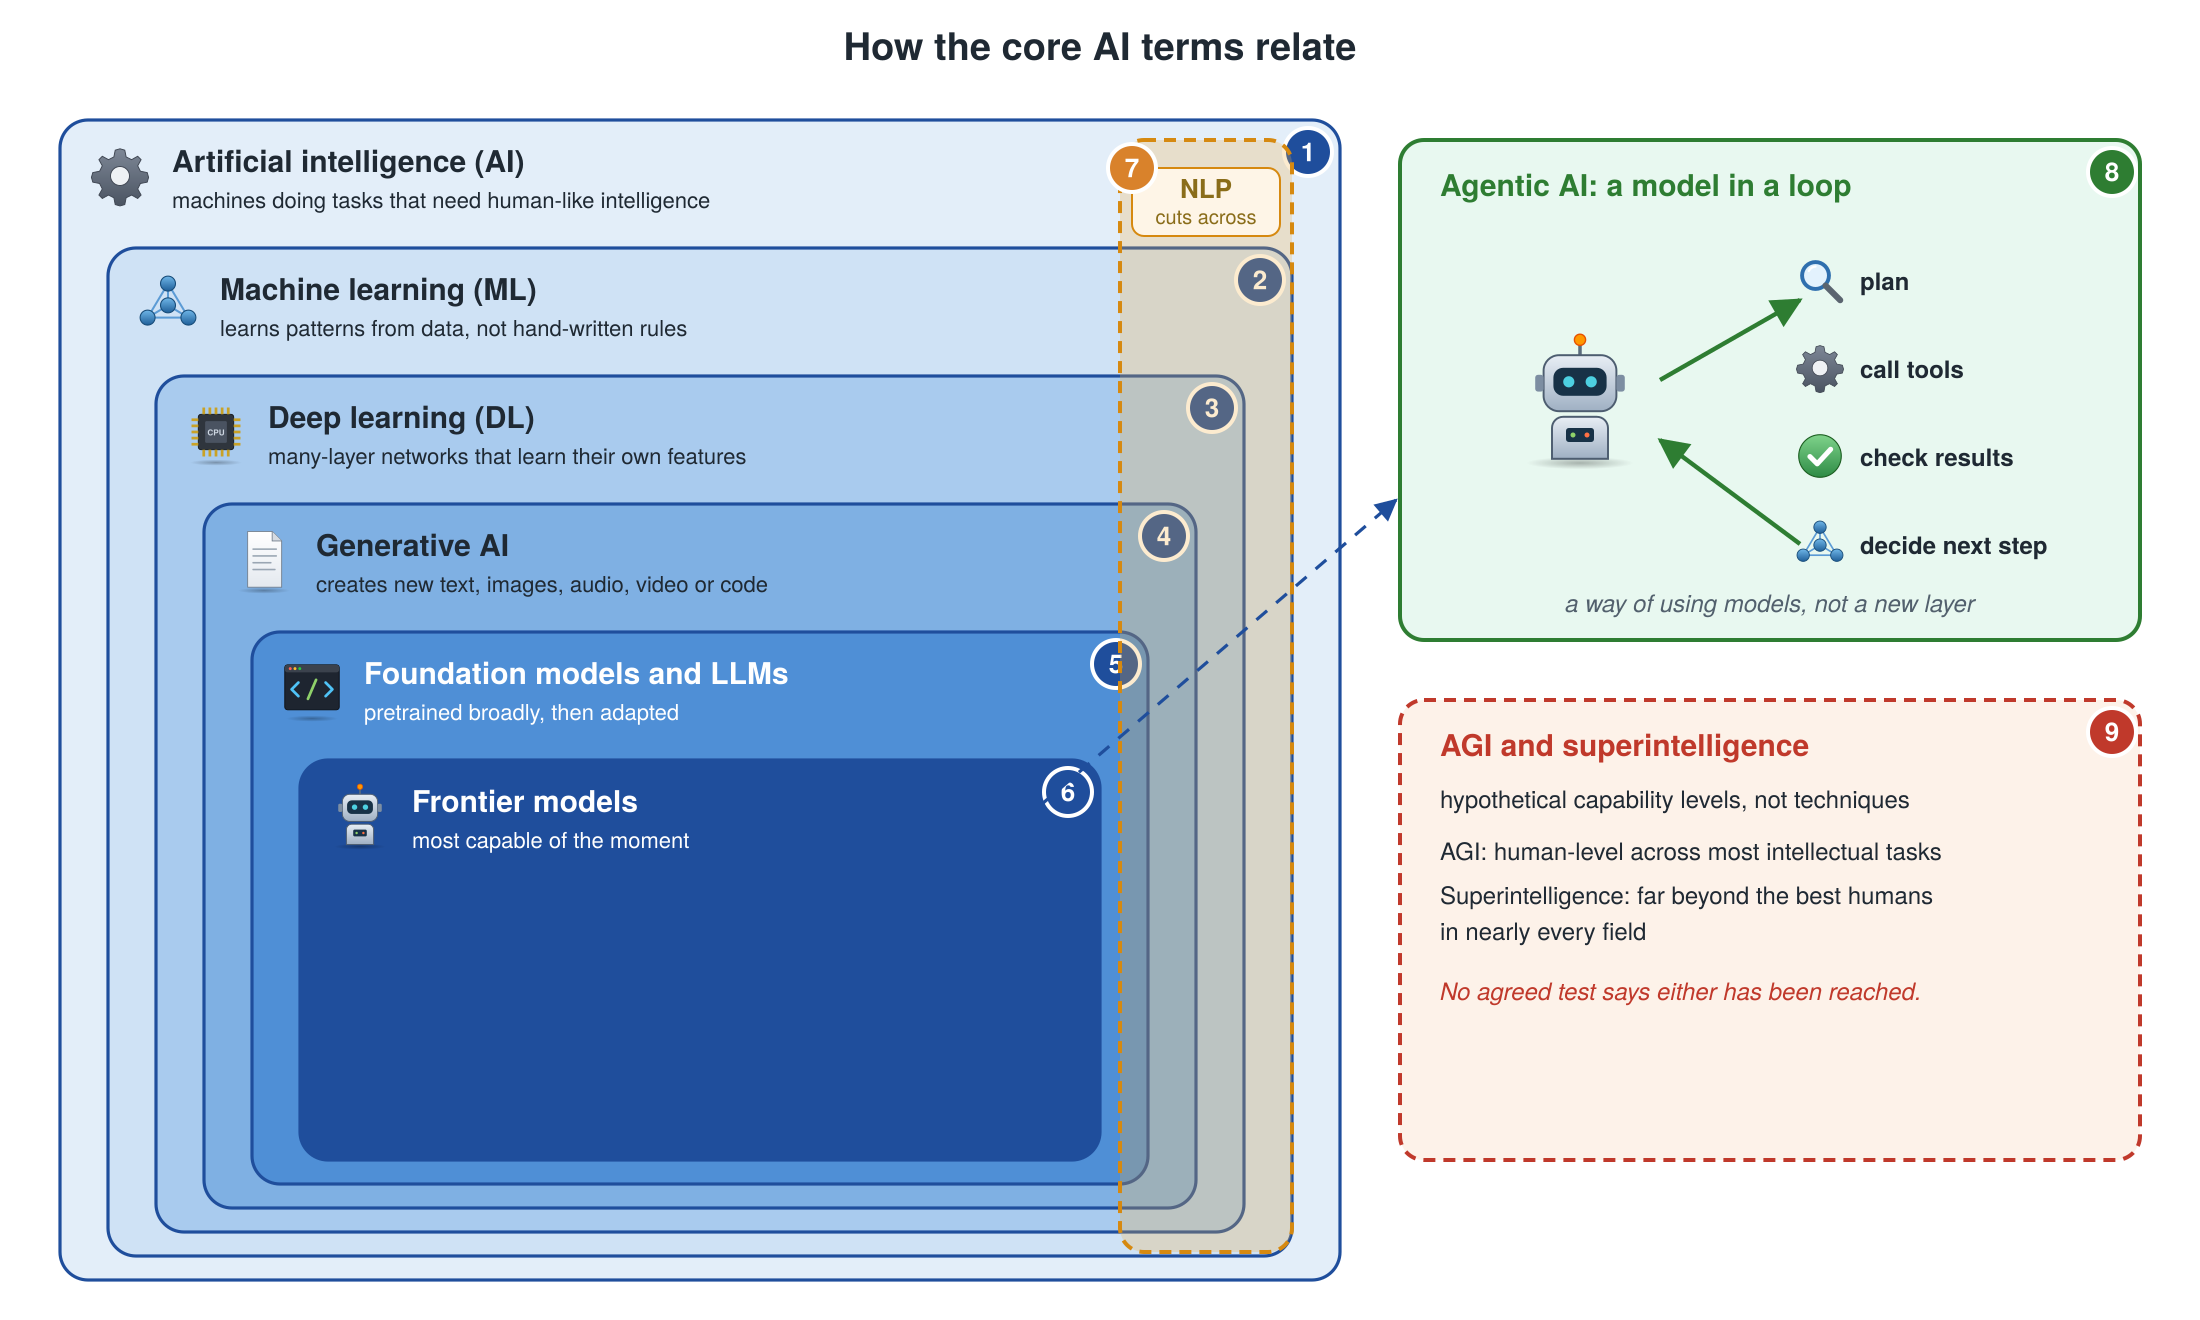
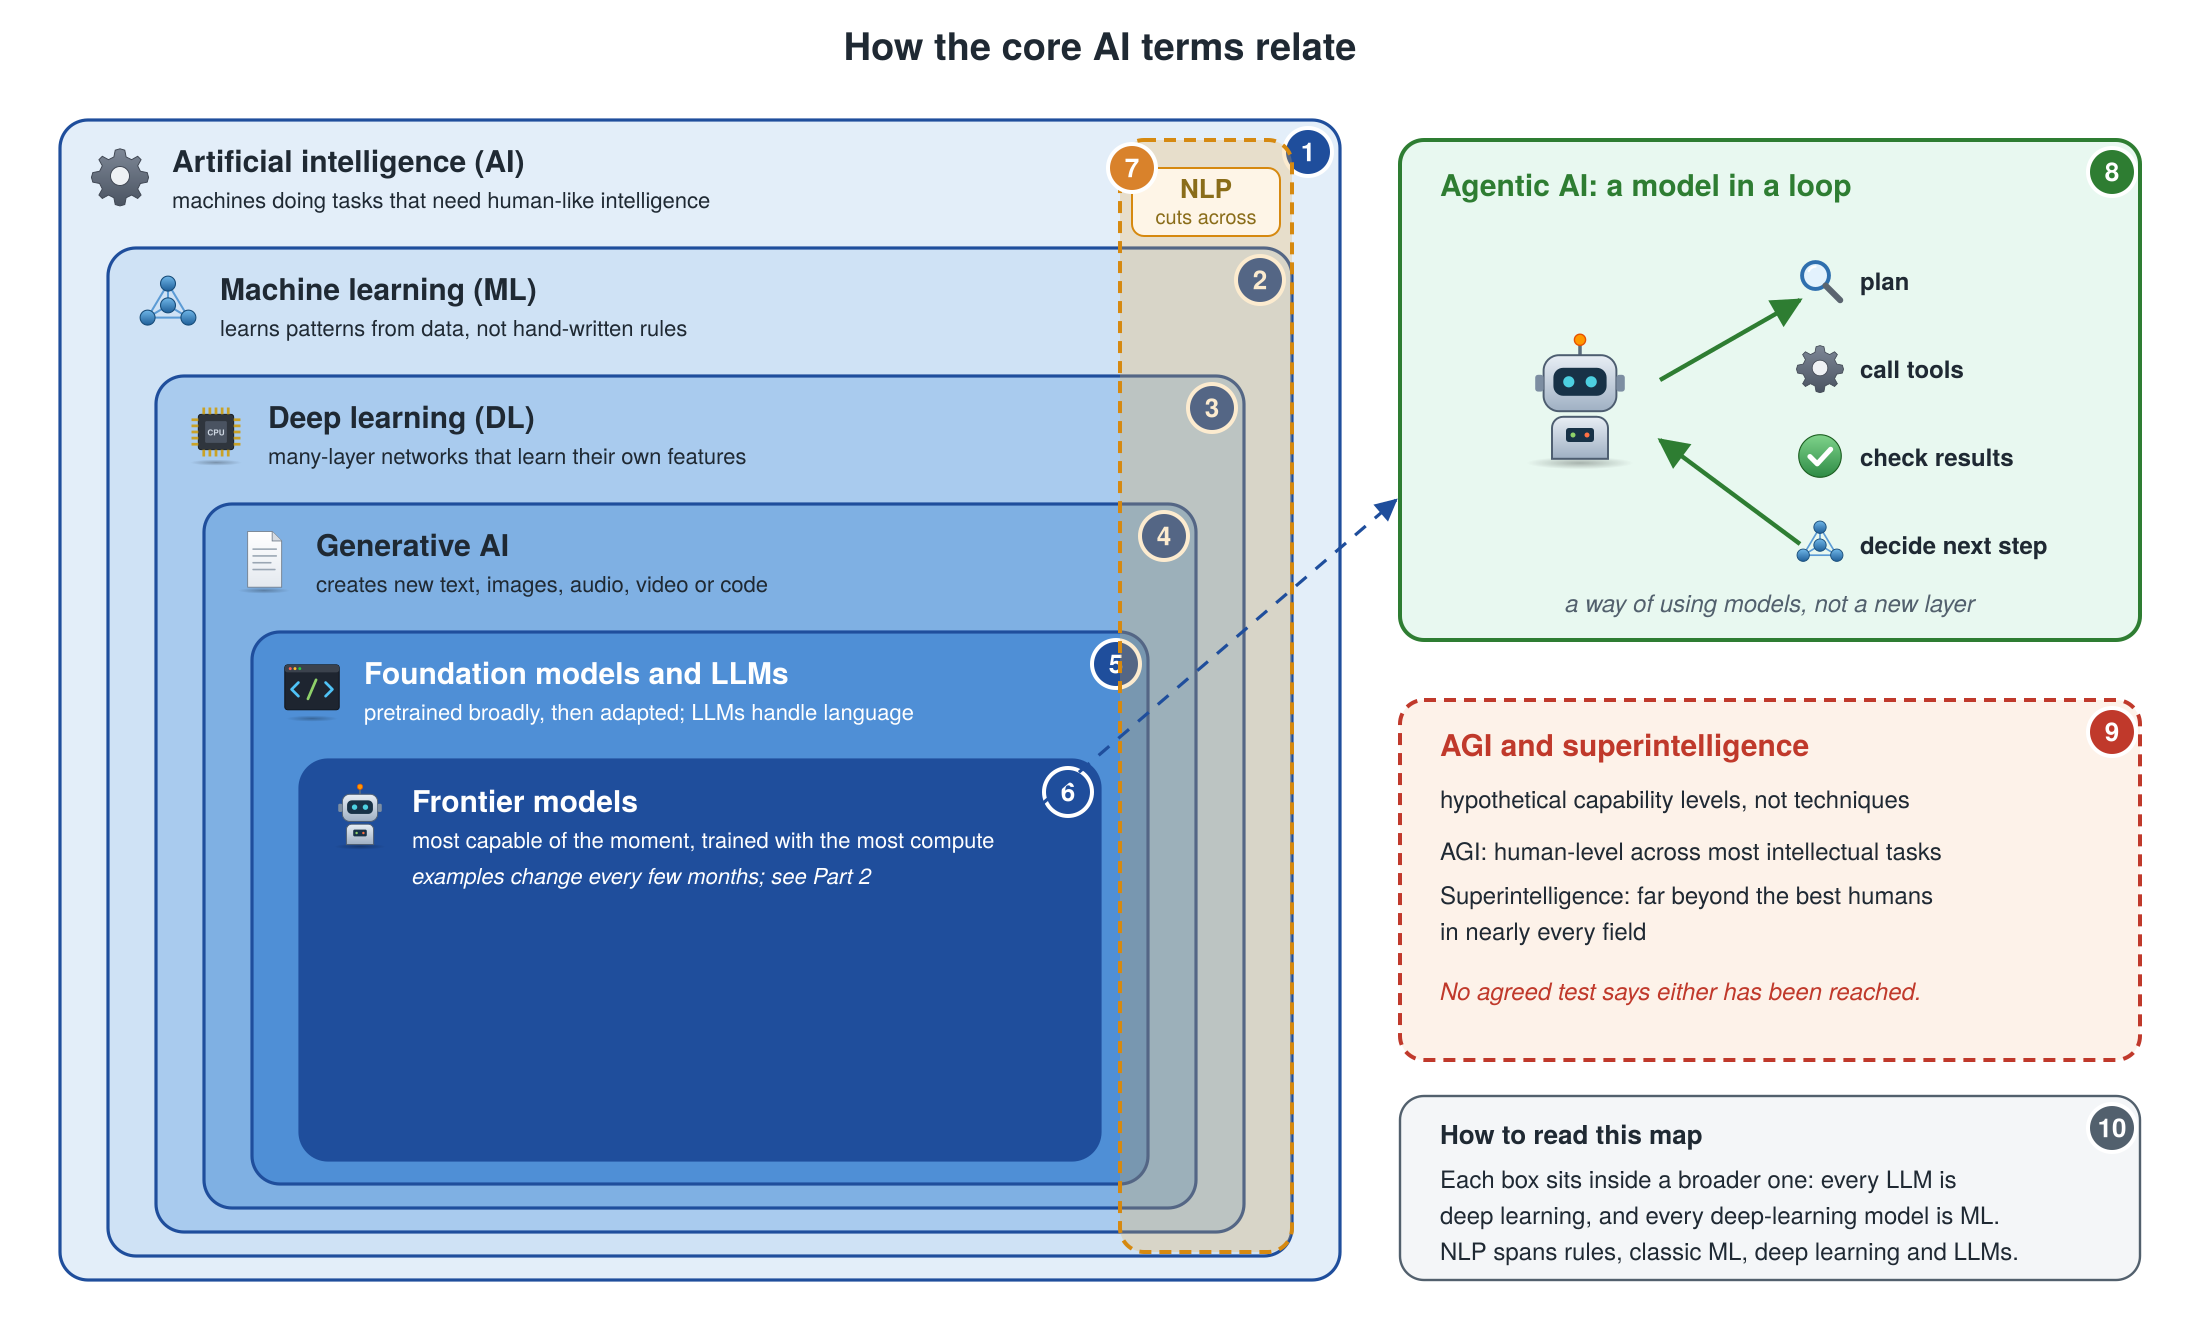
Replace the four old diagrams with their animated redraws
The animated icon figures for the AI concepts map, effort levels, model
choice flow, and ML pipeline now carry the old captions and are numbered
figures. The old diagrams no longer render; their files stay in _static.

Notes from the old diagrams that the redraws lacked are now in the
figures: frontier compute and changing examples, LLMs handling language,
a how-to-read note, and same model, same prompt. Prose references to the
concept map use numref, so they match the rendered figure number.

Claude-Session: https://claude.ai/code/session_013cDUifwJv1iFP1PFHsLGvp

diff --git a/tools/figures/bk_redraws.py b/tools/figures/bk_redraws.py
@@ -8,13 +8,14 @@ m = Fig(1100, 660, "How the core AI terms relate",
         "Nested boxes from broadest to narrowest, built from the outside in: artificial intelligence, machine learning, deep learning, "
         "generative AI, foundation models and LLMs, and frontier models. A dashed NLP band cuts across every layer. To the right, agentic "
         "AI is a model placed in a loop with tools, and AGI and superintelligence are hypothetical capability levels that no agreed "
-        "test says either has been reached.")
+        "test says either has been reached. A note explains how to read the map: each box sits inside a broader one, and NLP spans "
+        "rules, classic machine learning, deep learning and LLMs.")
 lv = [("Artificial intelligence (AI)", "machines doing tasks that need human-like intelligence", "gear", "#e3eef9"),
       ("Machine learning (ML)", "learns patterns from data, not hand-written rules", "nodes", "#cfe2f5"),
       ("Deep learning (DL)", "many-layer networks that learn their own features", "chip", "#a9cbee"),
       ("Generative AI", "creates new text, images, audio, video or code", "document", "#7fb0e3"),
-      ("Foundation models and LLMs", "pretrained broadly, then adapted", "code", "#4f8fd6"),
-      ("Frontier models", "most capable of the moment", "robot", "#1f4e9c")]
+      ("Foundation models and LLMs", "pretrained broadly, then adapted; LLMs handle language", "code", "#4f8fd6"),
+      ("Frontier models", "most capable of the moment, trained with the most compute", "robot", "#1f4e9c")]
 for i, (name, sub, ic, fill) in enumerate(lv):
     x0, y0, w, h = 30 + i * 24, 60 + i * 64, 640 - i * 48, 580 - i * 76
     tc = "#ffffff" if i >= 4 else INK
@@ -22,6 +23,7 @@ for i, (name, sub, ic, fill) in enumerate(lv):
     m.icon(ic, x0 + 30, y0 + 28, 34, step=i + 1)
     m.text(x0 + 56, y0 + 26, name, 15, tc, "bold", "start", step=i + 1); m.text(x0 + 56, y0 + 44, sub, 11, tc, anchor="start", step=i + 1)
     m.badge(i + 1, x0 + w - 16, y0 + 16, step=i + 1)
+m.text(206, 442, "examples change every few months; see Part 2", 11, "#ffffff", anchor="start", step=6, italic=True)
 m.rect(560, 70, 86, 556, "#f5b041", "#d68910", 2, rx=12, step=7, opacity=.25, dash=True)
 m.rect(566, 84, 74, 34, "#fef5e7", "#d68910", 1, rx=6, step=7); m.text(603, 99, "NLP", 13, "#8a6d1a", "bold", step=7); m.text(603, 112, "cuts across", 10, "#8a6d1a", step=7)
 m.badge(7, 566, 84, step=7, color=ORANGE)
@@ -33,13 +35,18 @@ for k, (ic, lab, ang) in enumerate([("search", "plan", 0), ("gear", "call tools"
 m.arrow([(830, 190), (900, 150)], None, GREEN, step=8); m.arrow([(900, 272), (830, 220)], None, GREEN, step=8)
 m.text(885, 306, "a way of using models, not a new layer", 12, MUTED, step=8, italic=True)
 m.arrow([(500, 420), (698, 250)], None, "#1f4e9c", step=8, width=1.6, dash=True)
-m.rect(700, 350, 370, 230, "#fdf2e9", RED, 2, rx=12, step=9, dash=True); m.badge(9, 1056, 366, step=9, color=RED)
+m.rect(700, 350, 370, 180, "#fdf2e9", RED, 2, rx=12, step=9, dash=True); m.badge(9, 1056, 366, step=9, color=RED)
 m.text(720, 378, "AGI and superintelligence", 15, RED, "bold", "start", step=9)
 m.text(720, 404, "hypothetical capability levels, not techniques", 12, INK, anchor="start", step=9)
 m.text(720, 430, "AGI: human-level across most intellectual tasks", 12, INK, anchor="start", step=9)
 m.text(720, 452, "Superintelligence: far beyond the best humans", 12, INK, anchor="start", step=9)
 m.text(720, 470, "in nearly every field", 12, INK, anchor="start", step=9)
 m.text(720, 500, "No agreed test says either has been reached.", 12, RED, anchor="start", step=9, italic=True)
+m.rect(700, 548, 370, 92, "#f4f6f8", MUTED, 1.2, rx=12, step=10); m.badge(10, 1056, 564, step=10, color=MUTED)
+m.text(720, 572, "How to read this map", 13, INK, "bold", "start", step=10)
+m.text(720, 594, "Each box sits inside a broader one: every LLM is", 12, INK, anchor="start", step=10)
+m.text(720, 612, "deep learning, and every deep-learning model is ML.", 12, INK, anchor="start", step=10)
+m.text(720, 630, "NLP spans rules, classic ML, deep learning and LLMs.", 12, INK, anchor="start", step=10)
 m.save(OUT + "bk_ai_concepts_map")
 
 # Effort levels
@@ -67,6 +74,7 @@ for k, (col, lab) in enumerate([("#f5b041", "thinking (reasoning tokens)"), ("#4
 e.arrow([(1040, 90), (1040, 330)], None, RED, step=4, width=3)
 for k, t in enumerate(["longer wait", "more tokens:", "cost and usage", "more checking"]): e.text(1030, 150 + k * 40 - (12 if k == 2 else 0), t, 12, RED, "bold", "end", step=4)
 e.badge(4, 1040, 76, step=4, color=RED)
+e.text(550, 372, "Same model, same prompt: only the work before and during the answer grows.", 13, INK, "bold", step=5)
 e.text(550, 400, "Illustrative, not to scale. Effort changes how much work the model does on this request, not what it knows.", 13, MUTED, italic=True, step=5)
 e.text(550, 420, "With adaptive thinking, a high setting on an easy question may still produce little or no thinking.", 13, MUTED, italic=True, step=5)
 e.save(OUT + "bk_effort_levels")
@@ -104,6 +112,6 @@ for i, (name, sub, ic) in enumerate(st):
     p.text(x, 232, name, 15, col, "bold", step=i + 1); p.text(x, 250, sub, 12, INK, step=i + 1); p.badge(i + 1, x - 46, 104, step=i + 1, color=col)
     if i < 5: p.arrow([(x + 58, 150), (x + 124, 150)], None, col, step=i + 2, width=2.6)
 p.arrow([(823, 268), (823, 320), (459, 320), (459, 268)], "iterate: improve features if metrics are poor", ORANGE, step=7, dash=True, width=2.4, label_at=.5)
-p.badge(7, 640, 320, step=7, color=ORANGE)
+p.badge(7, 823, 294, step=7, color=ORANGE)
 p.save(OUT + "bk_ml_pipeline")
 print("ok")

diff --git a/book/primer/ai-concepts-assistants-effort.md b/book/primer/ai-concepts-assistants-effort.md
@@ -41,20 +41,15 @@ After this chapter you should be able to:
 People use *AI*, *machine learning*, *deep learning*, *LLM* and *agent* as if
 they were interchangeable. They are not. Most of these terms **nest inside one
 another**, a few **cut across** the others, and a few name **capability levels**
-that no one has shown a system to reach. Figure 1 puts them on one map, and the
+that no one has shown a system to reach. {numref}`Figure %s <fig-ai-concepts-map>` puts them on one map, and the
 sections below walk through it from the outside in.
 
-```{image} ../_static/figures/bk_ai_concepts_map.*
-:alt: Animated map of nested AI terms built from the outside in: AI, machine learning, deep learning, generative AI, foundation models and LLMs, frontier models, with an NLP band across them, agentic AI as a model in a loop with tools, and AGI and superintelligence as hypothetical levels
+```{figure} ../_static/figures/bk_ai_concepts_map.*
+:name: fig-ai-concepts-map
+:alt: Animated map of nested AI terms built from the outside in: AI, machine learning, deep learning, generative AI, foundation models and LLMs, frontier models, with an NLP band across them, agentic AI as a model in a loop with tools, AGI and superintelligence as hypothetical levels, and a note on how to read the map
 :width: 95%
 :align: center
 :class: anim-fig
-```
-
-```{figure} ../_static/ai-concepts-map.svg
-:alt: Nested boxes from broadest to narrowest. Artificial intelligence contains machine learning, which contains deep learning, which contains generative AI, which contains foundation models and large language models, which contain frontier models. A dashed band labeled NLP cuts across every layer. To the right, agentic AI is shown as a model in a loop with tools, and AGI and superintelligence are shown as hypothetical capability levels.
-:width: 100%
-:align: center
 
 How the core terms relate. Each box sits inside the broader one around it. The
 nesting is a simplification: a few foundation models, such as embedding models,
@@ -142,7 +137,7 @@ standard textbook by Jurafsky and Martin describes it as the field, also called
 computational linguistics, aimed at getting computers to perform useful tasks
 involving human language, and calls it the new heart of modern AI
 ([Jurafsky and Martin, Speech and Language Processing, 3rd edition draft](https://web.stanford.edu/~jurafsky/slp3/1.pdf)).
-NLP is drawn as a dashed band in Figure 1 because it is defined by the **problem**
+NLP is drawn as a dashed band in {numref}`Figure %s <fig-ai-concepts-map>` because it is defined by the **problem**
 (language), not by a technique. Over the decades it has been tackled with
 hand-written rules (ELIZA, a 1966 program that imitated a psychotherapist by
 pattern matching, is a famous early example), with statistical machine learning,
@@ -312,7 +307,7 @@ are not orchestrated to act autonomously
 ([Federal Register, January 8, 2026](https://www.govinfo.gov/content/pkg/FR-2026-01-08/html/2026-00206.htm)).
 NIST launched an AI Agent Standards Initiative in February 2026
 ([NIST](https://nist.gov/news-events/news/2026/02/announcing-ai-agent-standards-initiative-interoperable-and-secure)).
-Agentic AI is therefore **a way of using models**, not a new layer in Figure 1.
+Agentic AI is therefore **a way of using models**, not a new layer in {numref}`Figure %s <fig-ai-concepts-map>`.
 {doc}`../module-3/04-agents` shows how to build one.
 
 ### Artificial general intelligence (AGI)
@@ -1146,17 +1141,11 @@ faster ([Claude Help Center, model, effort and thinking settings](https://suppor
 ChatGPT and Gemini have similar controls under different names. The sentence
 makes three claims, and each one has a concrete technical reason behind it.
 
-```{image} ../_static/figures/bk_effort_levels.*
+```{figure} ../_static/figures/bk_effort_levels.*
 :alt: The same prompt at low, medium, and high or maximum effort, built row by row: one thinking step, then a few with a tool call, then many with several tool calls and a self-check; wait, tokens, and checking grow with effort
 :width: 95%
 :align: center
 :class: anim-fig
-```
-
-```{figure} ../_static/effort-levels.svg
-:alt: Three rows show the same model answering the same prompt at low, medium and high or maximum effort. At low effort there is one short thinking step before the answer. At medium effort there are a few thinking steps and one tool call. At high or maximum effort there are many thinking steps, several tool calls and a self-check before a longer answer. An arrow shows that waiting time, tokens used and checking all grow with effort.
-:width: 100%
-:align: center
 
 What changes when you raise the effort level. The model and the prompt stay the
 same; what grows is the work done before and during the answer.

diff --git a/book/primer/ai-and-tools-reference.md b/book/primer/ai-and-tools-reference.md
@@ -148,20 +148,14 @@ A simple decision process:
 5. **Test and iterate.** Evaluate a couple of candidate models on your own
    examples before committing.
 
-```{image} ../_static/figures/bk_choose_model.*
+```{figure} ../_static/figures/bk_choose_model.*
 :alt: Five numbered cards: match the modality, match difficulty to effort, weigh cost and context, privacy and compliance, and test and iterate, with a loop back to raise the effort and then deploy
 :width: 95%
 :align: center
 :class: anim-fig
-```
 
-```{figure} ../_static/choose-model-flowchart.svg
-:alt: A five-step decision flowchart for choosing a model and effort level. The steps are match the modality, match difficulty to effort, weigh cost and context, respect privacy and compliance, then test and iterate, looping back to raise the effort when the model makes errors.
-:width: 80%
-:align: center
-
-Choosing the right model and effort level as a decision flow. Steps run top to
-bottom; the dashed loop returns to step 2 to raise the effort whenever the model
+Choosing the right model and effort level as a decision flow. Steps run left to
+right; the dashed loop returns to step 2 to raise the effort whenever the model
 makes reasoning errors.
 ```
 

diff --git a/book/appendix-traditional-ml.md b/book/appendix-traditional-ml.md
@@ -28,17 +28,11 @@ Classical supervised ML follows a repeatable pipeline. You explore and clean the
 data, engineer features, train a model, evaluate it, and check it for fairness,
 looping back to improve features whenever the metrics disappoint.
 
-```{image} _static/figures/bk_ml_pipeline.*
+```{figure} _static/figures/bk_ml_pipeline.*
 :alt: Six numbered pipeline stages with icons: raw data, EDA, features, train model, evaluate, and check fairness, with a loop from evaluate back to features
 :width: 95%
 :align: center
 :class: anim-fig
-```
-
-```{figure} _static/ml-pipeline.svg
-:alt: A left-to-right pipeline diagram with the stages raw data, EDA, feature engineering, train model, evaluate, and check fairness, with a dashed feedback arrow from evaluate back to feature engineering.
-:width: 100%
-:align: center
 
 The supervised machine learning pipeline. Steps run left to right; the dashed loop
 means you revisit feature engineering when evaluation metrics are poor.
